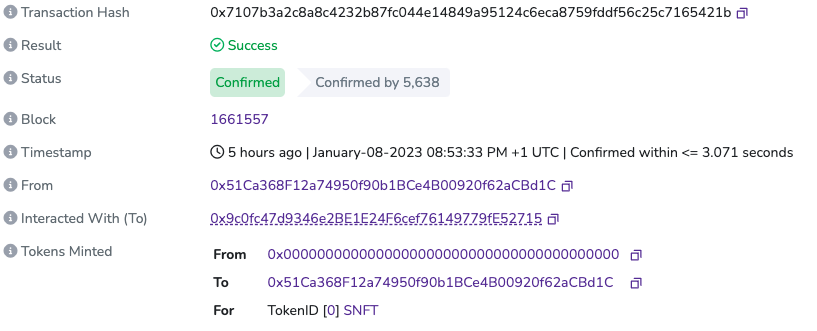
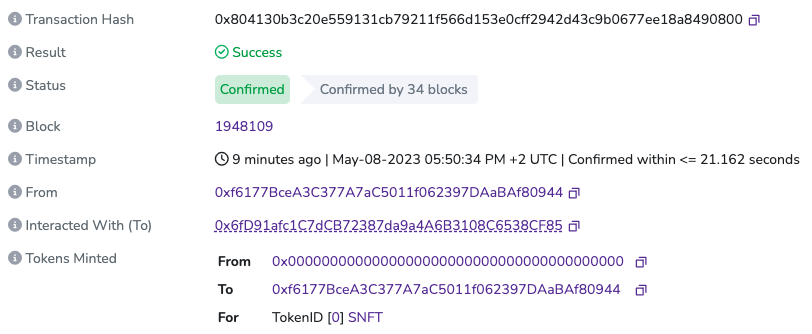
Updated NFT blog with new links

diff --git a/content/posts/scroll-layer2-nft-and-multisig-deployment.md b/content/posts/scroll-layer2-nft-and-multisig-deployment.md
@@ -102,10 +102,10 @@ We’ll start by running the `deploy.py` script which will deploy new instances 
 ![nft_deployed](/media/scroll-layer2-nft-and-multisig-deployment/nft_deployed.png "NFT deployed")<br/>
 ![supersig_deployed](/media/scroll-layer2-nft-and-multisig-deployment/supersig_deployed.png "Contracts overview")
 
-As we can see, the contracts were successfully deployed. We can find them by typing those into [Scroll’s Block Explorer](https://l2scan.scroll.io/) search bar in the top right corner.
+As we can see, the contracts were successfully deployed. We can find them by typing those into [Scroll’s Block Explorer](https://blockscout.scroll.io/) search bar in the top right corner.
 
-**TheNFT.sol:** [Link to contract on L2](https://l2scan.scroll.io/address/0xF7e514622AF27662fBd940b7061a2daD977ba478)<br/>
-**Supersig.vy:** [Link to contract on L2](https://l2scan.scroll.io/address/0x79A485E22d85757c4fa545FfF5DdFE5999E93210)
+**TheNFT.sol:** [Link to contract on L2](https://blockscout.scroll.io/address/0x2b755B2D78156215Ac9dA3b2E09eB674B1493C92)<br/>
+**Supersig.vy:** [Link to contract on L2](https://blockscout.scroll.io/address/0x6fD91afc1C7dCB72387da9a4A6B3108C6538CF85)
 
 It seems that contracts are easily deployed, so no problem with developer tooling, even the non-mainstream ones.<br/>
 That makes one of the statements true, developer tooling does work out of the box. ✅
